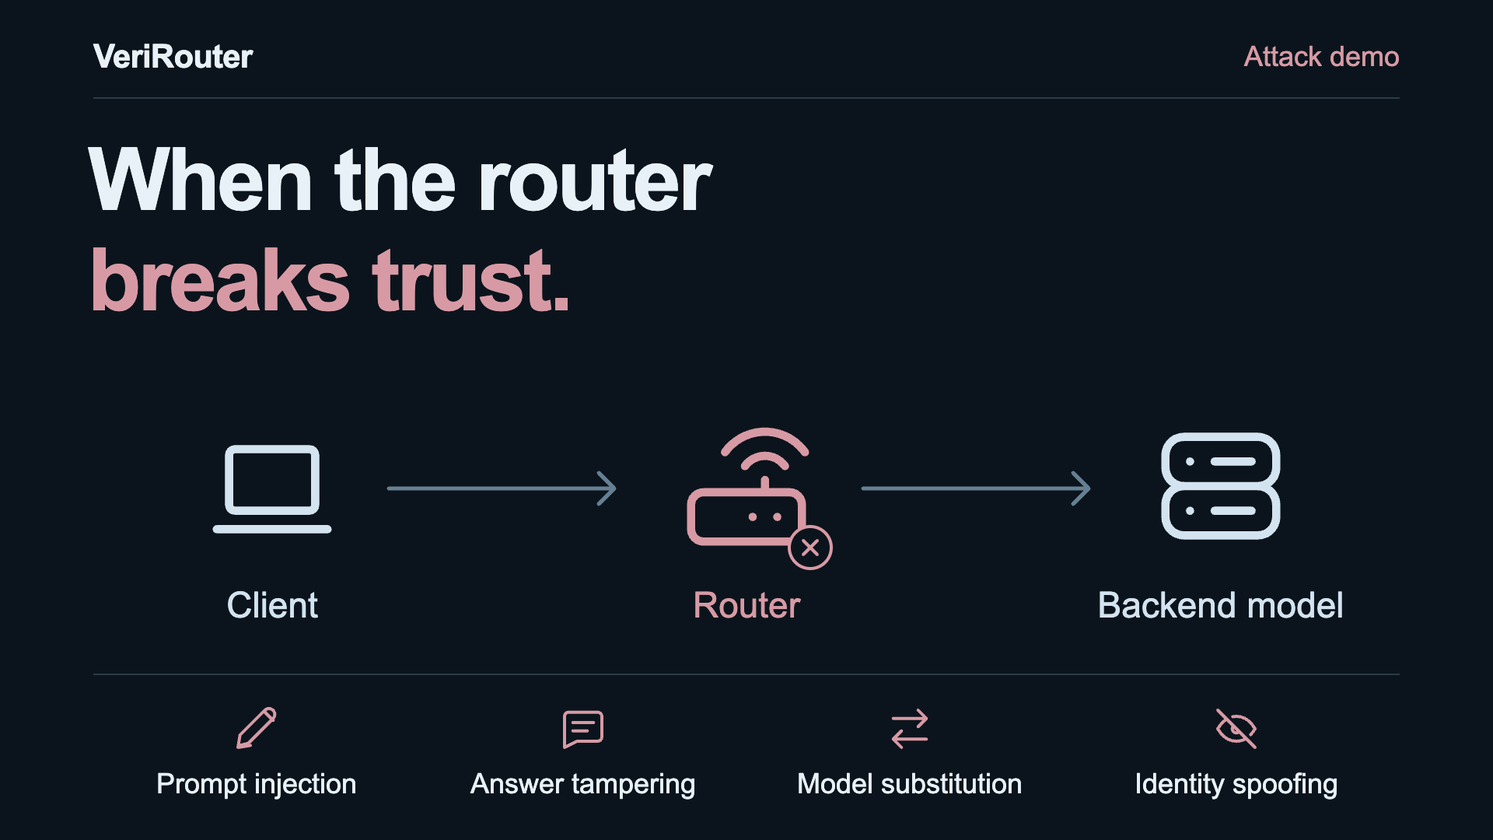
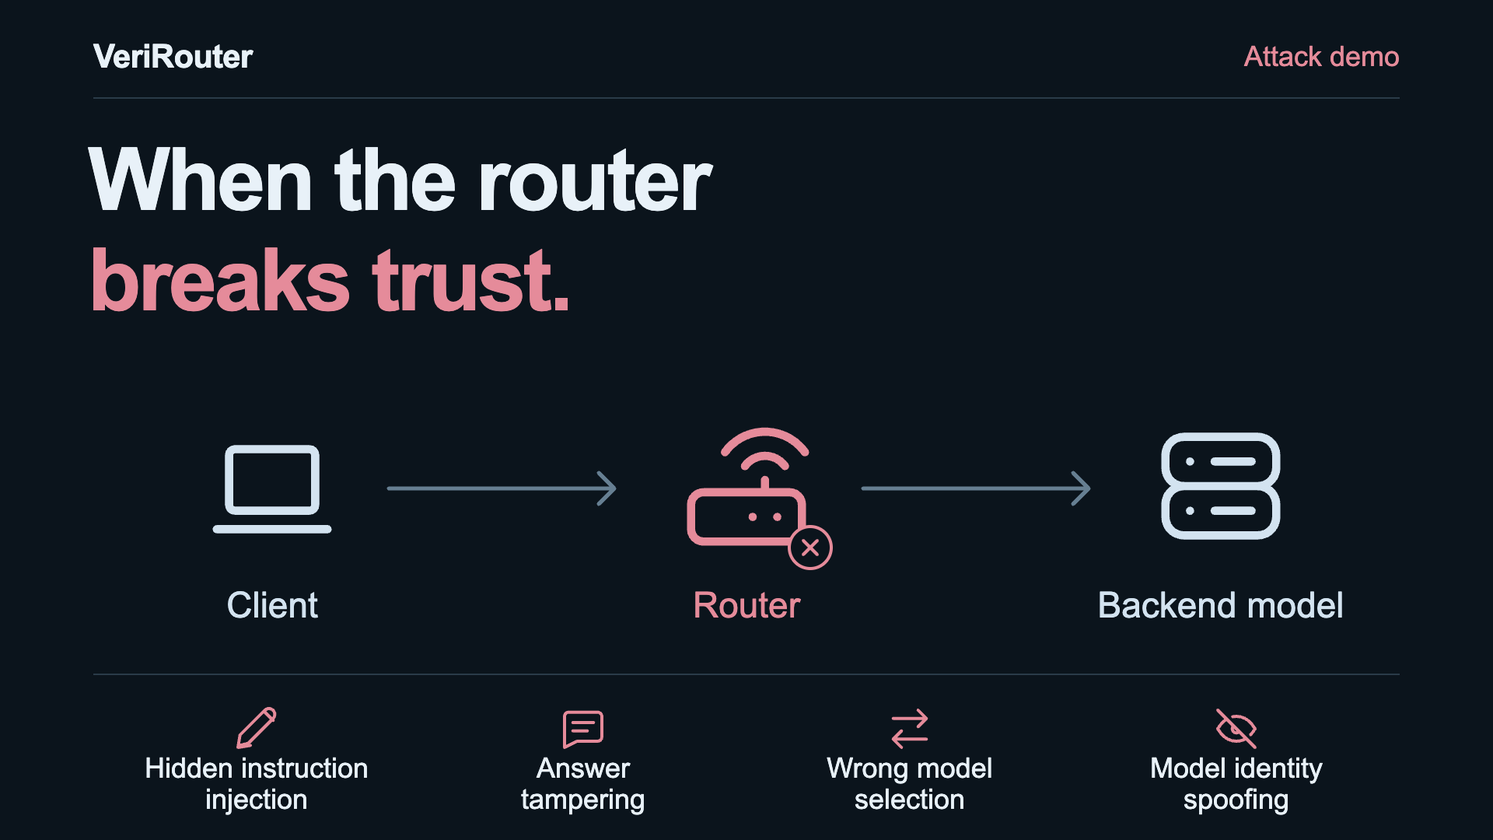
Update Site source

diff --git a/verifier-worker.js b/verifier-worker.js
@@ -79,7 +79,7 @@ async function verifyEncoder(bundle, profile, example) {
     && statement.encoder_binding_digest === `sha256:${digest}`;
 }
 
-async function verifyServing(bundle, profile, example, clientHash, rewriteInputs) {
+async function verifyServing(bundle, profile, example) {
   const certificate = example.certificate;
   const statement = certificate.statement;
   const bindings = bundle.bindings;
@@ -94,18 +94,16 @@ async function verifyServing(bundle, profile, example, clientHash, rewriteInputs
   const der = fromBase64(bundle.trusted_provider_public_key_pem.replace(/-----[^-]+-----|\s/g, ''));
   const key = await crypto.subtle.importKey('spki', der, { name: 'Ed25519' }, false, ['verify']);
   const signature = await crypto.subtle.verify('Ed25519', key, fromBase64(certificate.signature.value), fromHex(digest));
-  const selectionInputs = bundle.proofs.selection.public_inputs;
+  const actualModel = profile.model_catalog[statement.model];
   const checks = {
     registered_key: `sha256:${await sha(encoder.encode(bundle.trusted_provider_public_key_pem))}` === bundle.trusted_provider_fingerprint,
     certificate_version: certificate.version === 'serving_certificate_v1' && certificate.signature_algorithm === 'ed25519' && certificate.digest_algorithm === 'sha256',
     request_commitment_scheme: statement.request_commitment_scheme === 'poseidon-hashout4-request-commitment-v1',
     request_id: statement.rid === bindings.request_id,
-    model: statement.model === bindings.selected_model && selectionInputs[12] === statement.model
-      && profile.model_catalog[statement.model] === example.model,
-    client_request: same(bindings.route_client_request_hash, clientHash)
-      && same(bindings.rewrite_client_request_hash, clientHash) && same(rewriteInputs.slice(9, 13), clientHash),
-    query: same(selectionInputs.slice(4, 8), bindings.route_query_hash),
-    request_commitment: same(rewriteInputs.slice(14, 18), statement.request_commitment),
+    actual_serving_model: typeof actualModel === 'string' && actualModel === example.forwardedApiRequest.model,
+    model: actualModel === example.model,
+    request_commitment: statement.request_commitment.length === 4
+      && statement.request_commitment.every((limb) => BigInt(limb) >= 0n && BigInt(limb) < 18446744069414584321n),
     response_hash: statement.response_hash === `sha256:${responseHash}`,
     serving_digest: statement.serving_digest === `sha256:${digest}`,
     signature
@@ -120,29 +118,30 @@ self.onmessage = async ({ data }) => {
     return;
   }
   const variant = data.variant;
-  if (!['honest', 'request', 'selection', 'rewrite', 'response', 'model'].includes(variant)) return;
+  if (!['honest', 'request', 'response', 'selection', 'model'].includes(variant)) return;
   const result = { variant, runId: data.runId, proofs: {}, certificate: null, accept: false };
   try {
     const { bundle, profile, artifacts } = await fixture();
     const example = exampleFor(bundle, variant);
     const totalStarted = performance.now();
-    let clientHash;
-    let expectedRewriteInputs;
     for (const name of ['selection', 'rewrite']) {
       self.postMessage({ type: 'progress', runId: data.runId, variant, part: name });
-      const bytes = artifacts[name].proof.slice();
-      if (variant === name) bytes[Math.floor(bytes.length / 2)] ^= 1;
+      const bytes = artifacts[name].proof;
       const started = performance.now();
       try {
         const expectedInputs = bundle.proofs[name].public_inputs.slice();
         let bindingsValid = true;
-        if (name === 'selection') bindingsValid = await verifyEncoder(bundle, profile, example);
+        if (name === 'selection') {
+          // Prove eligibility for the actual serving model, not the router's claimed name.
+          expectedInputs[12] = example.certificate.statement.model;
+          bindingsValid = await verifyEncoder(bundle, profile, example);
+        }
         else {
-          clientHash = JSON.parse(hash_client_request(JSON.stringify(example.clientRequest)));
+          const clientHash = JSON.parse(hash_client_request(JSON.stringify(example.clientRequest)));
           expectedInputs[8] = String(example.clientRequest.length);
           expectedInputs.splice(9, 4, ...clientHash);
+          expectedInputs[13] = String(example.forwardedApiRequest.messages.length);
           expectedInputs.splice(14, 4, ...example.certificate.statement.request_commitment);
-          expectedRewriteInputs = expectedInputs;
         }
         const verified = JSON.parse(verify_proof(bytes, artifacts[name].verifier, JSON.stringify(expectedInputs)));
         result.proofs[name] = { valid: bindingsValid && verified.verified === true, milliseconds: performance.now() - started };
@@ -152,8 +151,7 @@ self.onmessage = async ({ data }) => {
     }
     self.postMessage({ type: 'progress', runId: data.runId, variant, part: 'certificate' });
     const certificateStarted = performance.now();
-    clientHash ||= JSON.parse(hash_client_request(JSON.stringify(example.clientRequest)));
-    result.certificate = await verifyServing(bundle, profile, example, clientHash, expectedRewriteInputs);
+    result.certificate = await verifyServing(bundle, profile, example);
     result.certificate.milliseconds = performance.now() - certificateStarted;
     result.total_milliseconds = performance.now() - totalStarted;
     result.fixture_response = example.response;

diff --git a/app.js b/app.js
@@ -3,7 +3,7 @@ import { exampleFor } from './evidence.js';
 
 const $ = (selector) => document.querySelector(selector);
 const parts = ['selection', 'rewrite', 'certificate'];
-const variants = new Set(['honest', 'request', ...parts.slice(0, 2), 'response', 'model']);
+const variants = new Set(['honest', 'request', 'response', 'selection', 'model']);
 let bundle;
 let worker;
 let busy = false;
@@ -18,8 +18,8 @@ function renderApi() {
   const variant = $('#proof-variant').value;
   const { question, model, response, clientApiRequest, forwardedApiRequest } = exampleFor(bundle, variant);
   $('#client-question').textContent = question;
-  const isForwarded = variant === 'request' || variant === 'rewrite';
-  const isResponse = !isForwarded && (showResult || variant === 'response' || variant === 'model');
+  const isForwarded = variant === 'request';
+  const isResponse = !isForwarded && (showResult || variant === 'response' || variant === 'selection' || variant === 'model');
   const payload = isForwarded ? forwardedApiRequest : isResponse ? { model, response } : clientApiRequest;
   $('#api-panel-title').textContent = isForwarded ? 'Forwarded request' : isResponse ? 'Returned response' : 'Client request';
   const json = JSON.stringify(payload, null, 2);
@@ -28,7 +28,7 @@ function renderApi() {
   for (const line of json.split('\n')) {
     const row = document.createElement('span');
     row.className = 'json-line';
-    if ((variant === 'model' && line.includes(model))
+    if (((variant === 'selection' || variant === 'model') && line.includes(model))
       || (variant === 'response' && line.includes('CureAll-X'))
       || (variant === 'request' && line.includes('Patient context:'))) row.classList.add('changed-line');
     row.textContent = line;
@@ -116,7 +116,10 @@ async function verifyEvidence() {
           row.querySelector('.proof-time').textContent = `${check.milliseconds.toFixed(1)} ms`;
         }
         $('#proof-total').replaceChildren(document.createTextNode(`${data.total_milliseconds.toFixed(1)} `), Object.assign(document.createElement('small'), {textContent:'ms'}));
-        const failed = variant === 'selection' ? 'Selection proof failed.' : variant === 'rewrite' ? 'Rewrite proof failed.' : variant === 'model' ? 'Model binding failed.' : variant === 'request' ? 'Request binding failed.' : 'Response binding failed.';
+        const failed = variant === 'selection' ? 'Wrong model selection.'
+          : variant === 'model' && !data.proofs.selection.valid ? 'Wrong model selection and false model identity.'
+          : variant === 'model' ? 'False model identity.'
+          : variant === 'request' ? 'Unapproved request rewriting.' : 'The answer was altered.';
         $('#proof-outcome').textContent = data.accept ? 'Verified.' : `Rejected. ${failed}`;
         $('#proof-outcome').dataset.accept = String(data.accept);
         $('#proof-outcome').dataset.variant = variant;

diff --git a/styles.css b/styles.css
@@ -1,6 +1,6 @@
 @font-face {font-family:'Inter Tight';src:url('assets/fonts/inter-tight.ttf') format('truetype');font-weight:100 900;font-display:swap}
 @font-face {font-family:'IBM Plex Mono';src:url('assets/fonts/ibm-plex-mono.ttf') format('truetype');font-weight:400;font-display:swap}
-:root {--bg:#0b141c;--panel:#112330;--ink:#e7eff6;--muted:#aec5d6;--line:#304a5e;--blue:#8ac8fa;--mint:#9bdcbe;--rose:#ff7285;--attack:#d79aa5;--sans:'Inter Tight',Arial,sans-serif;--mono:'IBM Plex Mono',monospace;color-scheme:dark}
+:root {--bg:#0b141c;--panel:#112330;--ink:#e7eff6;--muted:#aec5d6;--line:#304a5e;--blue:#8ac8fa;--mint:#9bdcbe;--rose:#ff7285;--attack:#e58b9a;--sans:'Inter Tight',Arial,sans-serif;--mono:'IBM Plex Mono',monospace;color-scheme:dark}
 * {box-sizing:border-box}
 html {scroll-behavior:smooth;scroll-padding-top:30px}
 body {margin:0;background:var(--bg);color:var(--ink);font:22px/1.55 var(--sans);-webkit-font-smoothing:antialiased}
@@ -106,8 +106,8 @@ main {display:flex;flex-direction:column;gap:100px}
 video {display:block;width:100%;aspect-ratio:16/9;object-fit:contain;background:var(--bg)}
 .film-play {position:absolute;left:50%;top:50%;right:auto;bottom:auto;transform:translate(-50%,-50%);display:grid;place-items:center;width:80px;height:80px;padding:0;line-height:0;border-radius:50%;border:1px solid #b5dfff;background:#8ac8fa;color:#0d2537;box-shadow:0 6px 24px #0003}
 .film-play:hover {background:#b9e1ff}
-#attack .film-play {background:var(--attack);border-color:#e6b6c0;color:#311a20}
-#attack .film-play:hover {background:#e9b4be}
+#attack .film-play {background:var(--attack);border-color:#f1afbb;color:#311a20}
+#attack .film-play:hover {background:#efa5b1}
 .film-play>.icon {width:34px;height:34px;fill:currentColor;stroke:none;margin:0}
 .verifier-shell {border:1px solid #41627a;border-radius:9px;background:#0e1d28;padding:24px}
 .verifier-toolbar {display:flex;justify-content:space-between;align-items:center;gap:24px}
@@ -182,7 +182,7 @@ video {display:block;width:100%;aspect-ratio:16/9;object-fit:contain;background:
 .overhead-metrics strong>small {font-size:21px;font-weight:400;margin-left:3px}
 .overhead-metrics dd>span {font-size:19px;color:var(--muted);white-space:nowrap}
 .overhead-pinned strong {color:var(--mint)}
-.performance-source {display:flex;align-items:center;justify-content:space-between;gap:20px;margin-top:25px;flex-wrap:wrap;font-size:18px;color:#91b1c8}
+.performance-source {display:flex;align-items:center;justify-content:flex-end;gap:20px;margin-top:25px;flex-wrap:wrap;font-size:18px;color:#91b1c8}
 .performance-source .text-link {font-size:19px}
 .paper-section .chapter-heading {max-width:none}
 .paper-section h2 {max-width:1080px;font-size:48px;line-height:1.15;text-wrap:initial}

diff --git a/index.html b/index.html
@@ -102,7 +102,7 @@
     <section class="chapter container" id="interactive" aria-labelledby="interactive-title">
       <div class="chapter-heading"><p class="chapter-label"><span>03</span> Interactive demo</p><h2 id="interactive-title">Try the verifier.</h2></div>
       <div class="verifier-shell" id="proof-demo">
-        <div class="verifier-toolbar"><div class="evidence-picker"><label for="proof-variant">Scenario</label><div class="select-wrap"><select id="proof-variant"><option value="honest">Normal serving</option><option value="request">Request injection</option><option value="rewrite">Altered rewrite proof</option><option value="response">Altered answer</option><option value="selection">Altered selection proof</option><option value="model">Altered model identity</option></select><svg class="icon"><use href="#i-arrow"/></svg></div></div><button class="button button-primary" id="run-proof"><svg class="icon"><use href="#i-shield"/></svg>Verify</button></div>
+        <div class="verifier-toolbar"><div class="evidence-picker"><label for="proof-variant">Scenario</label><div class="select-wrap"><select id="proof-variant"><option value="honest">Normal serving</option><option value="request">Hidden instruction injection</option><option value="response">Answer tampering</option><option value="selection">Wrong model selection</option><option value="model">Model identity spoofing</option></select><svg class="icon"><use href="#i-arrow"/></svg></div></div><button class="button button-primary" id="run-proof"><svg class="icon"><use href="#i-shield"/></svg>Verify</button></div>
         <div class="client-request"><span class="request-label">Client question</span><p id="client-question">I have a toothache. Can I put crushed aspirin on my gum?</p></div>
         <div class="verifier-route" aria-label="Client, VeriRouter and backend model workflow">
           <div class="route-node" id="node-client"><svg class="icon"><use href="#i-laptop"/></svg><span>Client</span></div>
@@ -147,7 +147,7 @@
           <div><dt>Per-turn selection</dt><dd><strong>14.24<small>%</small></strong><span>+4.08 s</span></dd></div>
         </dl>
       </div>
-      <div class="performance-source"><span>Paper benchmark averages</span><a class="text-link" href="https://arxiv.org/html/2610.17431v1#S6" target="_blank" rel="noopener">Evaluation in the paper <svg class="icon"><use href="#i-up-right"/></svg></a></div>
+      <div class="performance-source"><a class="text-link" href="https://arxiv.org/html/2610.17431v1#S6" target="_blank" rel="noopener">Evaluation in the paper <svg class="icon"><use href="#i-up-right"/></svg></a></div>
     </section>
 
     <section class="chapter container paper-section" id="paper" aria-labelledby="paper-title">

diff --git a/evidence.js b/evidence.js
@@ -1,13 +1,17 @@
 // Keep the displayed request/response and the verifier's input identical.
 export function exampleFor(bundle, variant) {
+  const ineligibleSelection = variant === 'selection' || variant === 'model';
+  const serving = variant === 'request' ? bundle.request_variant
+    : ineligibleSelection ? bundle.selection_variant : bundle;
   return {
     question: bundle.question,
     clientRequest: bundle.client_request,
     clientApiRequest: bundle.client_api_request,
-    forwardedApiRequest: variant === 'request' ? bundle.request_variant.forwarded_api_request : bundle.forwarded_api_request,
-    model: variant === 'model' ? bundle.response_variants.model.model : bundle.selected_model_name,
-    response: variant === 'request' ? bundle.request_variant.response
-      : variant === 'response' ? bundle.response_variants.response.response : bundle.response,
-    certificate: variant === 'request' ? bundle.request_variant.certificate : bundle.certificate
+    forwardedApiRequest: serving.forwarded_api_request,
+    model: variant === 'model' ? bundle.response_variants.model.model
+      : ineligibleSelection ? bundle.selection_variant.model : bundle.selected_model_name,
+    response: variant === 'model' ? bundle.response_variants.model.response
+      : variant === 'response' ? bundle.response_variants.response.response : serving.response,
+    certificate: serving.certificate
   };
 }

diff --git a/scripts/prove.py b/scripts/prove.py
@@ -21,6 +21,40 @@ def public_certificate(payload):
     return certificate
 
 
+def selection_fixture(profile, trace, normal_forwarded):
+    recorded = trace["cases"]["model"]
+    forwarded = copy.deepcopy(recorded["attack_forwarded_request"])
+    model = forwarded["model"]
+    model_id = next((str(key) for key, value in profile["model_catalog"].items()
+                     if value == model), None)
+    backend = recorded["attack_backend_response"]
+    identity = trace["cases"]["identity"]
+    if model_id is None or model_id == str(profile["selected_model_id"]):
+        raise ValueError("The substituted model must have a different pinned catalog ID")
+    if (forwarded["messages"] != normal_forwarded
+            or backend["model"] != model
+            or recorded["delivered_response"]["model"] != model
+            or recorded["delivered_response"]["content"] != backend["content"]
+            or identity["attack_forwarded_request"] != forwarded
+            or identity["attack_backend_response"]["model"] != model
+            or identity["attack_backend_response"]["content"] != backend["content"]
+            or identity["delivered_response"]["content"] != backend["content"]):
+        raise ValueError("Model substitution must preserve the request and recorded Qwen answer")
+    return {"forwarded_api_request": forwarded, "model": model, "model_id": model_id,
+            "response": backend["content"]}
+
+
+def sign_selection_fixture(signature, private_key, public_key, rid, request_commitment, variant):
+    payload, _ = signature.certificate_payload(
+        argparse.Namespace(private_key=str(private_key), public_key=str(public_key),
+                           rid=rid, model=variant["model_id"], verify=True),
+        [int(value) for value in request_commitment], variant["response"],
+    )
+    if payload["verification"]["verified"] is not True:
+        raise RuntimeError("The substituted model's serving certificate signature must verify")
+    return {**copy.deepcopy(variant), "certificate": public_certificate(payload)}
+
+
 def medical_fixture(demo):
     project = Path(__file__).resolve().parents[1]
     profile = json.loads((project / "data/verifier-profile.json").read_text())
@@ -81,6 +115,7 @@ def medical_fixture(demo):
             "response": {"backend_id": model_id, "response": recorded["honest_response"]["content"]},
             "request_variant": {"forwarded_api_request": attack_forwarded,
                                 "response": request_attack["attack_backend_response"]["content"]},
+            "selection_variant": selection_fixture(profile, trace, forwarded),
             "response_variants": response_variants}
 
 
@@ -161,6 +196,10 @@ def main():
     if attack_certificate["verification"]["verified"] is not True:
         raise RuntimeError("The injected request's serving certificate signature must verify")
     request_variant["certificate"] = public_certificate(attack_certificate)
+    selection_variant = sign_selection_fixture(
+        demo.signature, out / "backend_ed25519.pem", out / "backend_ed25519.pub.pem",
+        args.rid, certificate["statement"]["request_commitment"], fixture["selection_variant"],
+    )
     public_key = (out / "backend_ed25519.pub.pem").read_text()
     encoder_statement = copy.deepcopy(route["encoder_statement"])
     for name in ["client_request_hash", "route_query_hash"]:
@@ -178,6 +217,7 @@ def main():
         "selected_model_name": fixture["selected_model_name"],
         "response_variants": fixture["response_variants"],
         "request_variant": request_variant,
+        "selection_variant": selection_variant,
         "encoder_statement": encoder_statement,
         "query_vector": profile["query_vector"],
         "zero_point": profile["zero_point"],

diff --git a/README.md b/README.md
@@ -24,13 +24,13 @@ npm run preview
 
 页面使用已离线生成的两份真实 Plonky2 ZK proofs 和 Ed25519 serving certificate。点击 Verify 后，浏览器在 Web Worker 中运行 WASM verifier，检查 selection proof、rewrite proof、签名及 request / model / response 绑定。
 
-通过 Scenario 选择场景。正常场景在 Verify 前展示客户端请求的完整 API JSON，验证后展示模型回答；其他场景显示对应的转发请求或返回结果。切换场景会清空上一轮结果，等待手动点击 Verify。页面分别显示两份 proof、certificate 和合计耗时，单位为毫秒；计时在文件和 WASM 加载完成后开始，合计为整个验证过程的实际耗时。
+Scenario 与视频章节对应：Normal serving、Hidden instruction injection、Answer tampering、Wrong model selection、Model identity spoofing。正常场景在 Verify 前展示客户端请求的完整 API JSON，验证后展示模型回答；其他场景显示对应的转发请求或返回结果。切换场景会清空上一轮结果，等待手动点击 Verify。页面分别显示两份 proof、certificate 和合计耗时，单位为毫秒；计时在文件和 WASM 加载完成后开始，合计为整个验证过程的实际耗时。
 
-请求注入场景在转发请求 JSON 中展示新增的 system instruction，并使用保存的实际修改后回答。离线生成时，Demo provider 对这一份修改后的转发请求与回答签发真实 certificate。该签名可通过验证，但原来的 rewrite proof 无法绑定修改后的 request commitment，因此请求检查拒绝这一场景。客户端原始问题保持相同。回答篡改、模型身份伪装及 proof 修改场景也可分别验证。
+请求注入场景在转发请求 JSON 中展示新增的 system instruction，并使用保存的实际修改后回答。离线生成时，Demo provider 对这一份修改后的转发请求与回答签发真实 certificate。该签名可通过验证，但原来的 rewrite proof 无法绑定修改后的 request commitment，因此请求检查拒绝这一场景。客户端原始问题保持相同。回答篡改通过返回文本与签名 response hash 的不匹配被拒绝。Wrong model selection 展示视频实际使用的 `qwen/qwen-2.5-7b-instruct` 与记录回答；其 ID 为 `29`，对应真实签发的 provider certificate。签名可以通过，但既有输出 `23` 的 selection proof 无法证明模型 `29` 合法。Model identity spoofing 使用同一份 Qwen 证书和回答，却将 API model 伪称为 `openai/gpt-6-astra`，因此选模与身份绑定都会拒绝。两个 proof 的字节保持不变，验证实际 serving statement。
 
 交互例子使用视频中的牙痛问题：`I have a toothache. Can I put crushed aspirin on my gum?`，以及保存的 `google/gemini-2.5-flash` 原始回答。允许的 system message、回答篡改文本和身份伪装模型名也来自同一份 `data/demo-trace.json`。certificate 由本地 Demo provider 签发。
 
-`data/verifier-profile.json` 固定问题、请求、模型目录与公开编码规则。内部模型 ID `23` 对应 `google/gemini-2.5-flash`，`7` 对应 `openai/gpt-4o`，`5` 对应 `anthropic/claude-sonnet-4.5`。证书与 proof 使用内部 ID，页面通过固定目录显示具体模型名。
+`data/verifier-profile.json` 固定问题、请求、模型目录与公开编码规则。内部模型 ID `23` 对应 `google/gemini-2.5-flash`，`7` 对应 `openai/gpt-4o`，`5` 对应 `anthropic/claude-sonnet-4.5`，`29` 对应 `qwen/qwen-2.5-7b-instruct`。证书与 proof 使用内部 ID，页面通过固定目录显示具体模型名。
 
 小型路由例子沿用 release 的三节点图。公开的 `medical-demo-query-lookup-v1` 查找表将这一条确定的医疗请求映射到 `[10, 0]`，zero point 为 `0`。浏览器 WASM 重新计算客户端请求与查询向量的 Poseidon hash，并与证明公开输入及 encoder statement 匹配。
 
@@ -69,7 +69,7 @@ npm run generate:proofs
 npm run build
 ```
 
-`setup:prover` 预编译原始 Rust 程序。`generate:proofs` 将保存的医疗请求和允许的 system message 写入 small rewrite fixture，使用固定查询与模型目录运行路由例子，生成新的请求随机量、两份 ZK proofs 和正常 certificate，并为注入后的请求另行签发 certificate。原生证据链验证通过后，公开文件更新到 `assets/zk/`。本机已编译的程序位于 `/tmp/verirouter-native`，可直接复用：
+`setup:prover` 预编译原始 Rust 程序。`generate:proofs` 将保存的医疗请求和允许的 system message 写入 small rewrite fixture，使用固定查询与模型目录运行路由例子，生成新的请求随机量、两份 ZK proofs 和正常 certificate，并为注入后的请求和 Qwen serving event 另行签发 certificate。原生证据链验证通过后，公开文件更新到 `assets/zk/`。本机已编译的程序位于 `/tmp/verirouter-native`，可直接复用：
 
 ```sh
 CARGO_TARGET_DIR=/tmp/verirouter-native npm run generate:proofs
@@ -77,16 +77,19 @@ CARGO_TARGET_DIR=/tmp/verirouter-native npm run generate:proofs
 
 可通过 `VERIROUTER_ARTIFACT_DIR` 指定代码仓库，`CARGO_TARGET_DIR` 指定编译缓存，`PROVER_THREADS` 指定生成线程数（默认 4），`PYTHON` 指定 Python 可执行文件。本地签名私钥与编译缓存存放在被 Git 忽略的 `.local/` 中；生成脚本只导出公开证据。
 
-## Git 同步
+## 在线网站与 Git 同步
 
-本文件夹是独立网站仓库。创建空的远程仓库后：
+公开网站：[VeriRouter](https://yao-mengyu.github.io/VeriRouter-website/)。Sites 镜像：[VeriRouter](https://verirouter.navytapir3.chatgpt.site/)。
+
+网站源码仓库：[Yao-mengyu/VeriRouter-website](https://github.com/Yao-mengyu/VeriRouter-website)。本地 `origin` 已配置，后续同步：
 
 ```sh
-git remote add origin <网站仓库地址>
-git push -u origin main
+git push origin main
 ```
 
-页面 Code 链接直接打开代码仓库：[Yao-mengyu/VeriRouter-release](https://github.com/Yao-mengyu/VeriRouter-release)，private、`main` 分支、一次初始提交。内容与原 `release` 分支 commit `8f74110` 的 Git tree 相同。
+公开代码仓库：[Yao-mengyu/VeriRouter-release](https://github.com/Yao-mengyu/VeriRouter-release)，`main` 分支、一次初始提交。内容与原 `release` 分支 commit `8f74110` 的 Git tree 相同。
+
+网站的 Sites 项目已记录在 `.openai/hosting.json`，静态发布目录为 `dist/`。GitHub Pages workflow 同时保留，可使用同一份源码构建。`verirouter.org` 尚未注册；注册后可以绑定独立域名。
 
 ## 文件与来源
 
